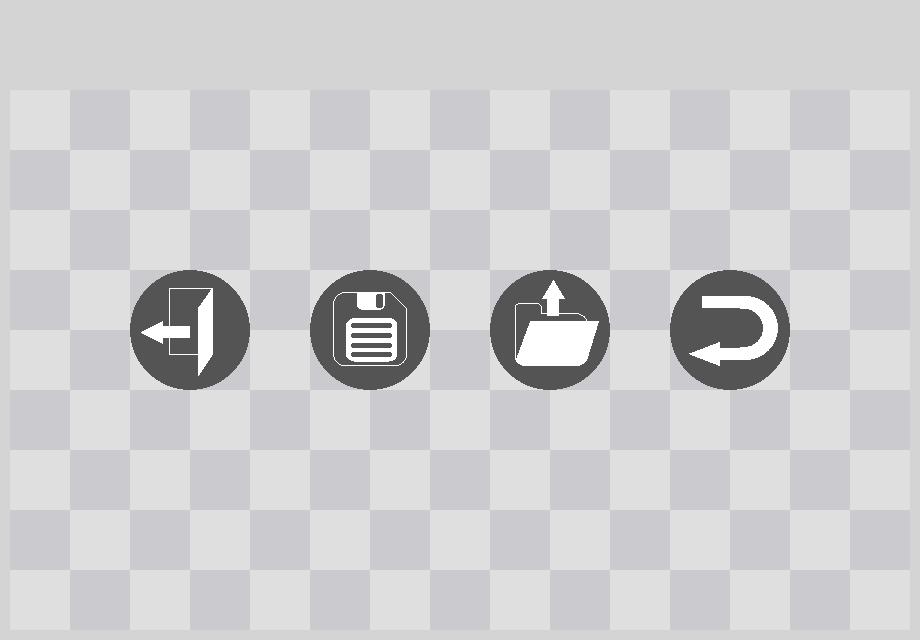
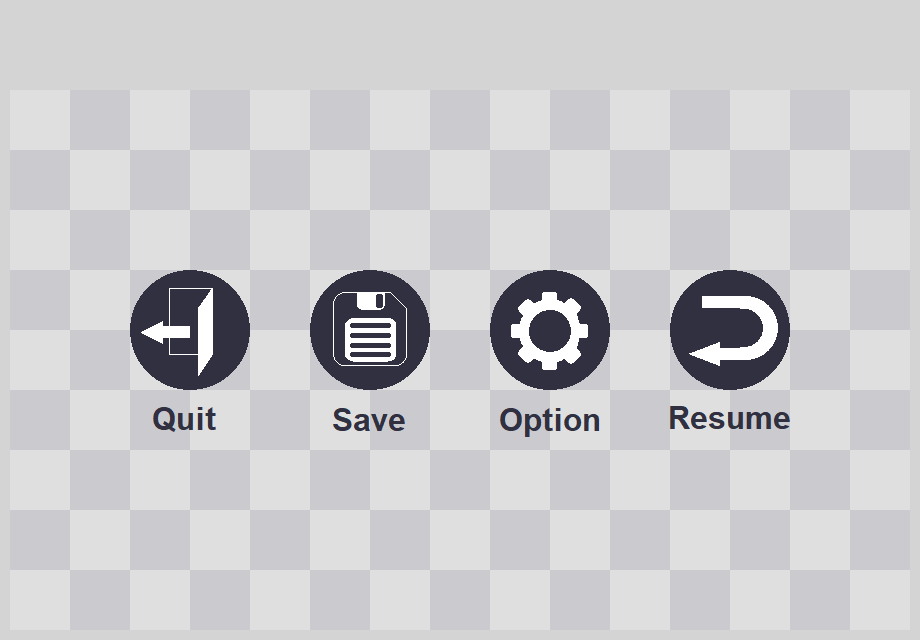
paused menu added
2019142034 조용준

diff --git a/project/game_menu.py b/project/game_menu.py
@@ -1,17 +1,78 @@
-msc_vol = 128
-eff_vol = 128
+from pico2d import *
+from coordinates_module import UI_HEIGHT, UI_WIDTH
+from buttons_ui import *
+from snake_move import cur_char, cur_stage
+
+def handle_events():
+    global acting, next_module, next_module_option
+    events = get_events()
+    for event in events:
+        if event.type == SDL_QUIT:
+            acting = False
+            next_module, next_module_option = '', None
+        elif event.type == SDL_KEYDOWN:
+            if event.key == SDLK_ESCAPE:
+                acting = False
+                next_module, next_module_option = 'snake_move', 'resume'
+        elif event.type == SDL_MOUSEBUTTONDOWN:
+            if event.button == SDL_BUTTON_LEFT:
+                button_clicked = -1
+                for i in range(4):
+                    if(buttons[i].isclicked(event.x, event.y)):
+                        button_clicked = i
+                        break
+                if(button_clicked == 0):
+                    acting = False
+                    next_module, next_module_option = 'title', 'exitall'
+                elif(button_clicked == 1):
+                    file = open('savedata.txt', 'w')
+                    file.write(cur_char + cur_stage)
+                    file.close()
+                elif(button_clicked == 2):
+                    acting = False
+                    next_module, next_module_option = 'option_setting', 'pause'
+                elif(button_clicked == 3):
+                    acting = False
+                    next_module, next_module_option = 'snake_move', 'resume'
 
 def enters(option):
-    global acting, next_module
+    global acting, next_module, next_module_option
+    global frame, img_ui_bg, img_ui_text, buttons
     acting = True
     next_module = ''
-    print('option')
+    next_module_option = None
+    frame = 0
+    img_ui_bg = load_image('img/field_menu.png')
+    img_ui_text = load_image('img/field_menu_msg.png')
+    buttons = [Game_menu_button(190 + 180 * i) for i in range(4)]
 
 def exits():
-    pass
+    global acting, next_module, next_module_option
+    global frame, img_ui_bg, img_ui_text, buttons
+    acting = None
+    next_module = None
+    next_module_option = None
+    frame = None
+    img_ui_bg = None
+    img_ui_text = None
+    buttons = None
 
 def acts():
-    return next_module, None
+    global frame
+    while(acting):
+        clear_canvas()
+        img_ui_bg.draw(UI_WIDTH // 2, UI_HEIGHT // 2)
+        if(frame < 45): img_ui_text.draw(UI_WIDTH // 2, 520)
+        handle_events()
+        update_canvas()
+        frame = (frame + 1) % 90
+        delay(0.01)
+    return next_module, next_module_option
 
 acting = None
 next_module = ''
+next_module_option = None
+frame = None
+img_ui_bg = None
+img_ui_text = None
+buttons = None

diff --git a/project/snake_move.py b/project/snake_move.py
@@ -13,13 +13,13 @@ from hpbar_obj import *
 from screen_hider_obj import *
 
 def handle_events():
-    global acting, direction, next_module
+    global acting, next_module, next_module_option
     events = get_events()
     for event in events:
         if event.type == SDL_QUIT:
             acting = False
             next_module = ''
-        if event.type == SDL_KEYDOWN:
+        elif event.type == SDL_KEYDOWN:
             if event.key == SDLK_ESCAPE:
                 acting = False
                 next_module = 'title'
@@ -41,6 +41,9 @@ def handle_events():
             elif event.key == SDLK_i: zzz = 1
             elif event.key == SDLK_o: zzz = 2
             elif event.key == SDLK_p: zzz = 3
+            elif event.key == SDLK_m:
+                acting = False
+                next_module, next_module_option = 'game_menu', 'pause'
 
 zzz = 1
 def snake_move_and_draw():
@@ -234,9 +237,11 @@ def enemy_hp_bar_draw():
 
 def enters(option):
     global acting, frame, field_array, next_module, next_module_option
-    global char_blue, apples, bombs, explodes, enemy_char, \
-        enemy_hpbar, broken_screen, screen_out, cloud, ices
-    if option == None: option = '11'
+    global char_blue, apples, bombs, explodes, enemy_char
+    global enemy_hpbar, broken_screen, screen_out, cloud, ices
+    global cur_char, cur_stage
+    cur_char, cur_stage = option[0], option[1]
+    print(cur_char, cur_stage)
     acting = True
     frame = 0
     field_array = []
@@ -246,7 +251,7 @@ def enters(option):
     apples = apple(10, 0)
     bombs = deque()
     explodes = deque()
-    enemy_char = deque([Enemy_body(i, color=COLOR_DICT[option[0]]) \
+    enemy_char = deque([Enemy_body(i, color=COLOR_DICT[cur_stage]) \
         for i in range(0, 12*(6-1)+1)])
     for snake in (Blue_body, Enemy_body):
         snake.reset()
@@ -258,8 +263,9 @@ def enters(option):
 
 def exits():
     global acting, frame, field_array, next_module, next_module_option
-    global char_blue, apples, bombs, explodes, enemy_char,\
-        enemy_hpbar, broken_screen, screen_out, cloud, ices
+    global char_blue, apples, bombs, explodes, enemy_char
+    global enemy_hpbar, broken_screen, screen_out, cloud, ices
+    global cur_char, cur_stage
     acting = None
     frame = None
     field_array = None
@@ -275,6 +281,8 @@ def exits():
     screen_out = None
     cloud = None
     ices = None
+    cur_char = None
+    cur_stage = None
 
 def acts():
     global acting, field_array, apples, frame, next_module
@@ -323,3 +331,5 @@ broken_screen = None
 screen_out = None
 cloud = None
 ices = None
+cur_char = None
+cur_stage = None

diff --git a/project/title_menu.py b/project/title_menu.py
@@ -1,5 +1,5 @@
 from pico2d import *
-from title_buttons_ui import *
+from buttons_ui import *
 from coordinates_module import UI_HEIGHT, UI_WIDTH
 
 def is_able_load():
@@ -22,12 +22,12 @@ def handle_events():
     for event in events:
         if event.type == SDL_QUIT:
             acting = False
-            next_module = ''
-        if event.type == SDL_KEYDOWN:
+            next_module, next_module_option = '', None
+        elif event.type == SDL_KEYDOWN:
             if event.key == SDLK_ESCAPE:
                 acting = False
-                next_module = 'title'
-        if event.type == SDL_MOUSEBUTTONDOWN:
+                next_module, next_module_option = 'title', None
+        elif event.type == SDL_MOUSEBUTTONDOWN:
             if event.button == SDL_BUTTON_LEFT:
                 button_clicked = -1
                 for i in range(4):
@@ -36,7 +36,7 @@ def handle_events():
                         break
                 if(button_clicked == 0):
                     acting = False
-                    next_module, next_module_option = 'snake_move', '10'
+                    next_module, next_module_option = 'snake_move', '11'
                 elif(button_clicked == 1):
                     acting = False
                     next_module, next_module_option = 'snake_move', loaded_dat
@@ -58,7 +58,7 @@ def enters(option):
     img_menu_button[1], loaded_suc = is_able_load()
     img_menu_button[2] = load_image('img/title_menu_option.png')
     img_menu_button[3] = load_image('img/title_menu_quit.png')
-    buttons = [title_button(img_menu_button[i], 550 - i * 150)\
+    buttons = [Title_button(img_menu_button[i], 550 - i * 150)\
         for i in range(4)]
     buttons[1].enabled = loaded_suc
 

diff --git a/project/state_changer.py b/project/state_changer.py
@@ -1,9 +1,22 @@
-def state_changer_activate(module_str):
+def state_changer_activate(start_module_str):
     option = None
-    next_module_str = module_str
+    next_module_str = start_module_str
     while(next_module_str != ''):
         current_module_str = next_module_str
         exec('import ' + next_module_str)
-        if(option != 'resume'): eval(next_module_str).enters(option)
+        if(option != 'resume'):
+            eval(next_module_str).enters(option)
+            state_stack.append(next_module_str)
+            print(next_module_str + ' entered')
         next_module_str, option = eval(next_module_str).acts()
-        if(option != 'pause'): eval(current_module_str).exits()
+        if(option == 'exitall'):
+            for i in range(len(state_stack)-1, -1, -1):
+                eval(state_stack[i]).exits()
+                print(state_stack[i] + ' exited')
+                state_stack.pop()
+        elif(option != 'pause'):
+            eval(current_module_str).exits()
+            state_stack.pop()
+            print(current_module_str + ' exited')
+
+state_stack = []

diff --git a/project/buttons_ui.py b/project/buttons_ui.py
@@ -1,0 +1,27 @@
+from coordinates_module import UI_WIDTH, UI_HEIGHT, get_distance
+
+class Title_button():
+    def __init__(self, image, y):
+        self.image = image
+        self.x = UI_WIDTH//2
+        self.y = y
+        self.enabled = True
+    def isclicked(self, x, y):
+        if(self.enabled and self.x - 197 < x < self.x + 197 and \
+            UI_HEIGHT - (self.y + 50) < y < UI_HEIGHT - (self.y - 50)):
+            return True
+        else:
+            False
+    def draw(self):
+        self.image.draw(UI_WIDTH // 2, self.y)
+
+class Game_menu_button():
+    def __init__(self, x):
+        self.x = x
+        self.y = 330
+        self.enabled = True
+    def isclicked(self, x, y):
+        if(get_distance(x, y, self.x, self.y) < 60):
+            return True
+        else:
+            False

diff --git a/project/option_setting.py b/project/option_setting.py
@@ -2,16 +2,17 @@ msc_vol = 128
 eff_vol = 128
 
 def enters(option):
-    global acting, next_module
+    global acting, next_module, next_module_option
     acting = True
-    next_module = ''
-    print('option')
+    next_module = 'game_menu'
+    next_module_option = 'resume'
 
 def exits():
     pass
 
 def acts():
-    return next_module, None
+    return 'game_menu', 'pause'
 
 acting = None
 next_module = ''
+next_module_option = None

diff --git a/project/title.py b/project/title.py
@@ -10,7 +10,7 @@ def handle_events():
         if event.type == SDL_QUIT:
             acting = False
             next_module = ''
-        if event.type == SDL_KEYDOWN:
+        elif event.type == SDL_KEYDOWN:
             if event.key == SDLK_s:
                 acting = False
                 next_module = 'title_menu'
